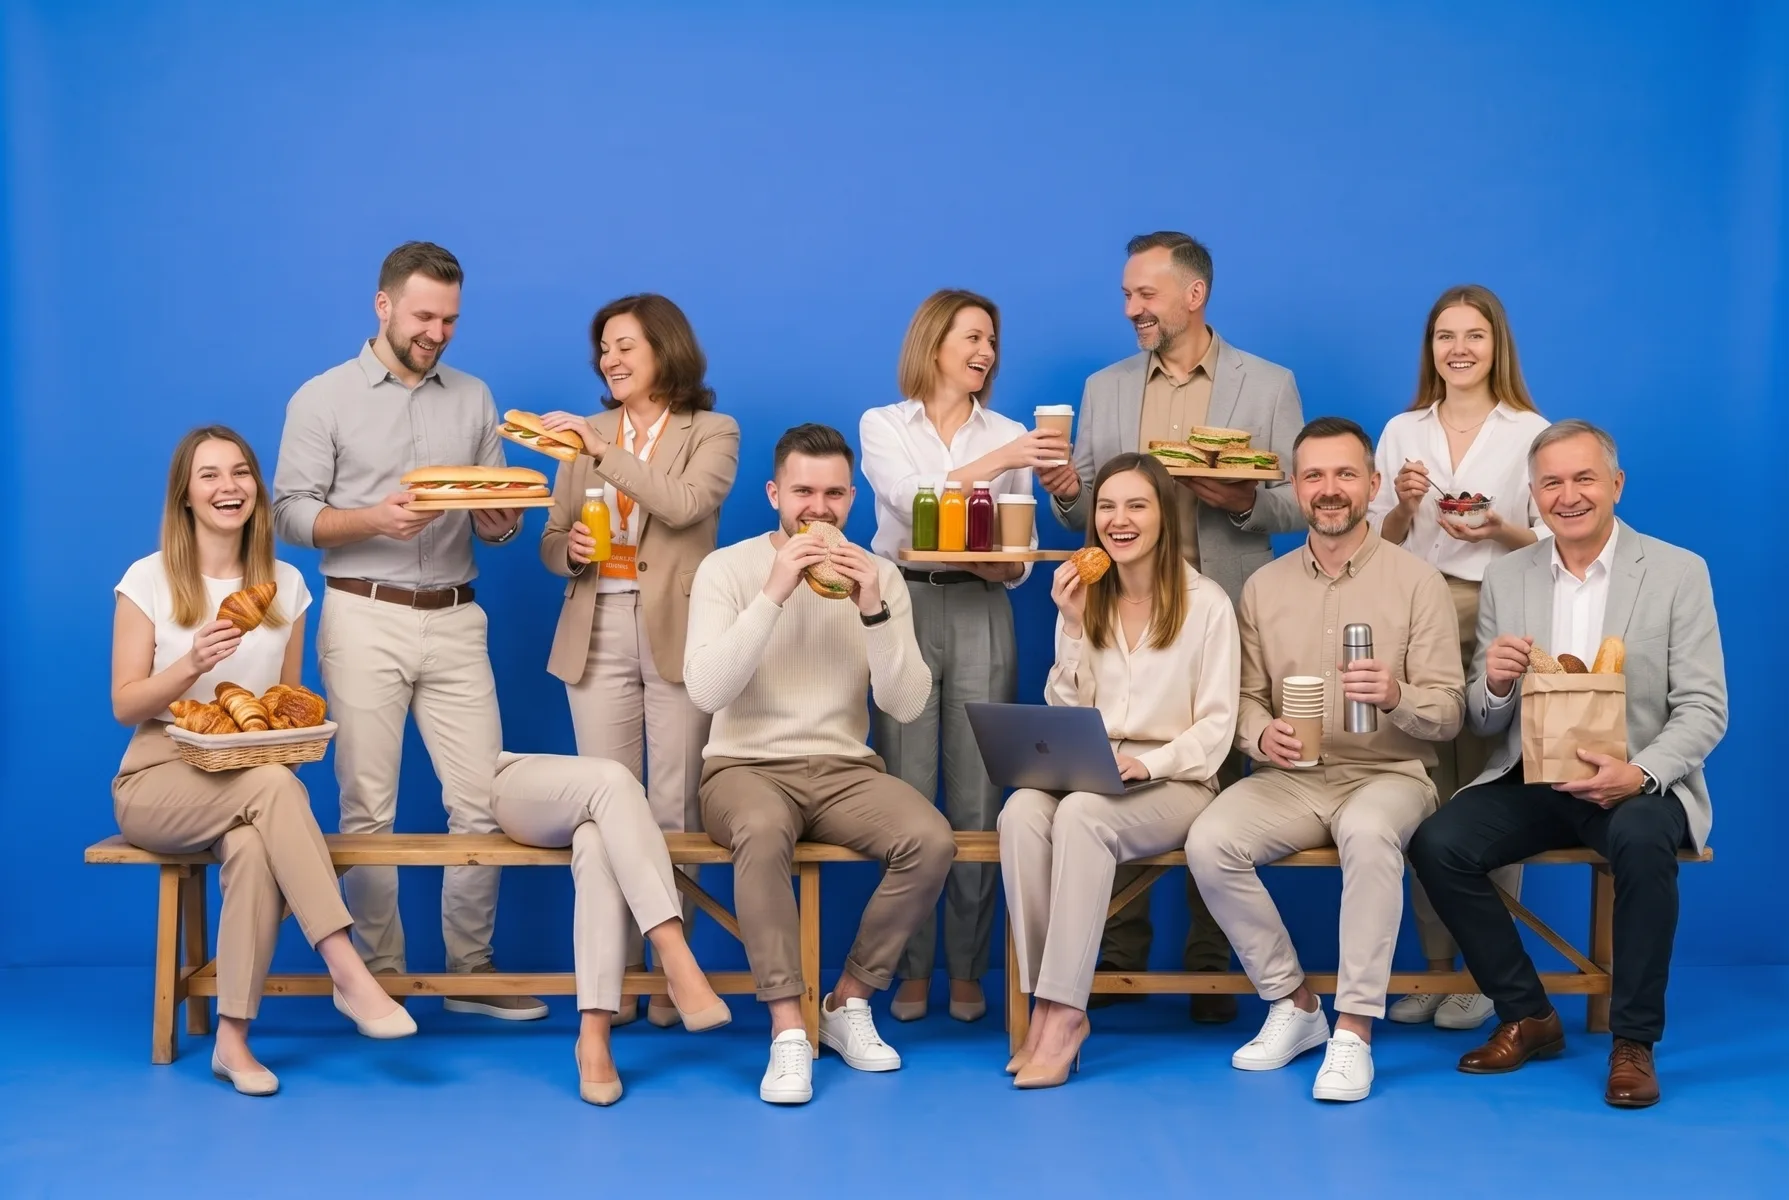
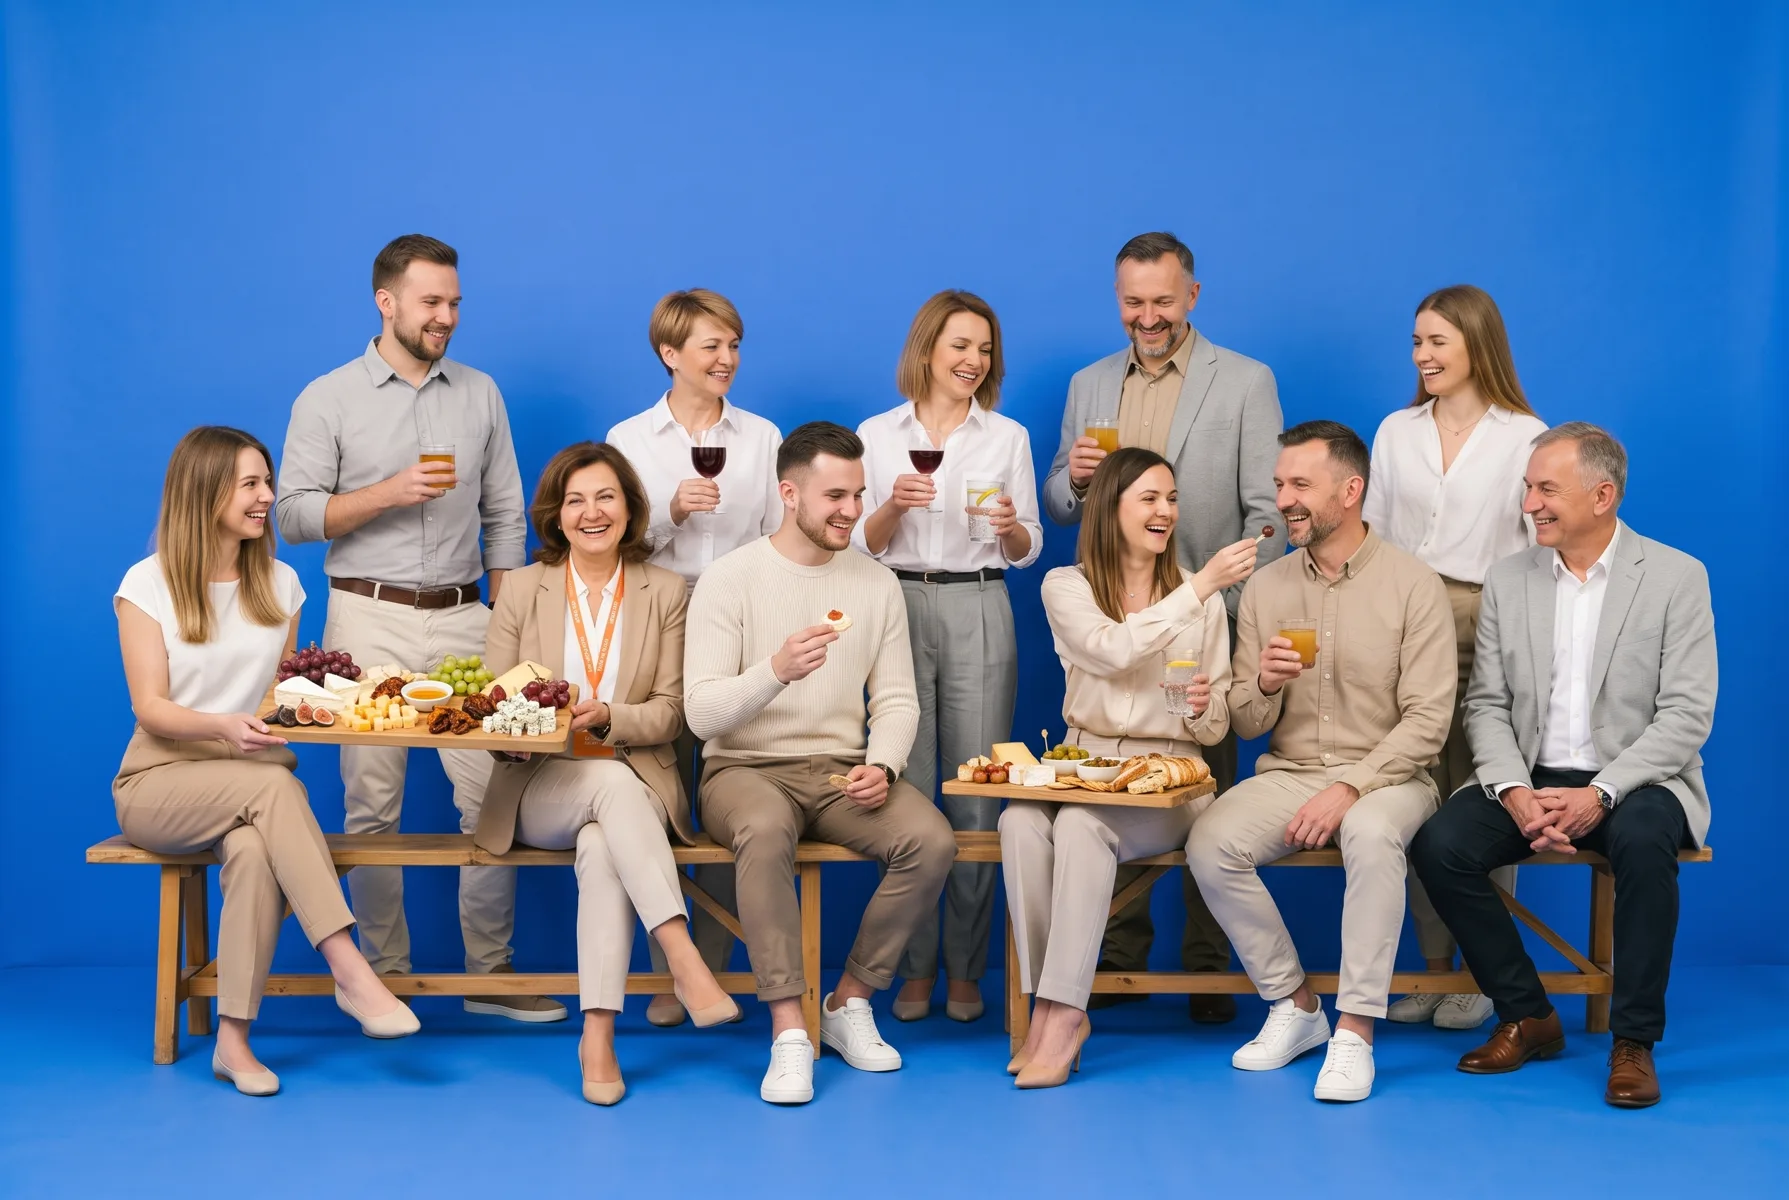
tb-kampania-zero: sprzedaż = degustacja po domkniętym kwartale

Changed region(s): [[0.0615, 0.185, 0.9838, 0.925], [0.0922, 0.74, 0.123, 0.8942], [0.7071, 0.8325, 0.7686, 0.8942]]

diff --git a/tb-kampania-zero.html b/tb-kampania-zero.html
@@ -119,7 +119,7 @@ section{padding:72px 0;}
   <div class="wrap">
     <div class="pairhead"><div class="mono">01 · Kampania</div><div class="mono">02 · Remarketing</div></div>
     <div class="pairs">
-      <div class="pair"><div class="poster p-blue"><img src="img/tb-zespoly/sprzedaz.webp" alt="Zespół sprzedaży"><div class="cap"><div class="who">Zespół sprzedaży · 10 osób</div><div class="line"><span class="stat">Wynik: 256% planu.</span><br>Budżet zespołu: 0 zł</div><div class="lock"><span class="brand"><img src="sygnet.svg" alt="">TeamBudget</span><span class="cta">Sprawdź TeamBudget</span></div></div></div><div class="poster after p-blue"><img src="img/tb-zespoly/sprzedaz-2.webp" alt="Zespół sprzedaży · 10 osób"><div class="cap"><div class="who">Zespół sprzedaży · 10 osób</div><div class="line"><span class="stat">Wynik: 256% planu.</span><br>Budżet zespołu: <b>2 000 zł</b><br>Śniadanie w&nbsp;piątki.</div><div class="lock"><span class="brand"><img src="sygnet.svg" alt="">TeamBudget</span><span class="cta">Zgłoś firmę do pilotażu</span></div></div></div></div>
+      <div class="pair"><div class="poster p-blue"><img src="img/tb-zespoly/sprzedaz.webp" alt="Zespół sprzedaży"><div class="cap"><div class="who">Zespół sprzedaży · 10 osób</div><div class="line"><span class="stat">Wynik: 256% planu.</span><br>Budżet zespołu: 0 zł</div><div class="lock"><span class="brand"><img src="sygnet.svg" alt="">TeamBudget</span><span class="cta">Sprawdź TeamBudget</span></div></div></div><div class="poster after p-blue"><img src="img/tb-zespoly/sprzedaz-2.webp" alt="Zespół sprzedaży · 10 osób"><div class="cap"><div class="who">Zespół sprzedaży · 10 osób</div><div class="line"><span class="stat">Wynik: 256% planu.</span><br>Budżet zespołu: <b>2 000 zł</b><br>Degustacja po domkniętym kwartale.</div><div class="lock"><span class="brand"><img src="sygnet.svg" alt="">TeamBudget</span><span class="cta">Zgłoś firmę do pilotażu</span></div></div></div></div>
       <div class="pair"><div class="poster p-orange"><img src="img/tb-zespoly/it.webp" alt="Zespół IT"><div class="cap"><div class="who">Zespół IT · 7 osób</div><div class="line"><span class="stat">Wdrożeń w tym roku: 412.</span><br>Budżet zespołu: 0 zł</div><div class="lock"><span class="brand"><img src="sygnet.svg" alt="">TeamBudget</span><span class="cta">Sprawdź TeamBudget</span></div></div></div><div class="poster after p-orange"><img src="img/tb-zespoly/it-2.webp" alt="Zespół IT · 7 osób"><div class="cap"><div class="who">Zespół IT · 7 osób</div><div class="line"><span class="stat">Wdrożeń w tym roku: 412.</span><br>Budżet zespołu: <b>1 200 zł</b><br>Kawa, o&nbsp;którą nikt nie prosi.</div><div class="lock"><span class="brand"><img src="sygnet.svg" alt="">TeamBudget</span><span class="cta">Zgłoś firmę do pilotażu</span></div></div></div></div>
       <div class="pair"><div class="poster p-sunny"><img src="img/tb-zespoly/ksiegowosc.webp" alt="Zespół księgowości"><div class="cap"><div class="who">Zespół księgowości · 6 osób</div><div class="line"><span class="stat">Zamknięć miesiąca na czas: 12 z 12.</span><br>Budżet zespołu: 0 zł</div><div class="lock"><span class="brand"><img src="sygnet.svg" alt="">TeamBudget</span><span class="cta">Sprawdź TeamBudget</span></div></div></div><div class="poster after p-sunny"><img src="img/tb-zespoly/ksiegowosc-2.webp" alt="Zespół księgowości · 6 osób"><div class="cap"><div class="who">Zespół księgowości · 6 osób</div><div class="line"><span class="stat">Zamknięć miesiąca na czas: 12 z 12.</span><br>Budżet zespołu: <b>800 zł</b><br>Owoce w&nbsp;każdy poniedziałek.</div><div class="lock"><span class="brand"><img src="sygnet.svg" alt="">TeamBudget</span><span class="cta">Zgłoś firmę do pilotażu</span></div></div></div></div>
       <div class="pair"><div class="poster p-yellow"><img src="img/tb-zespoly/obsluga.webp" alt="Zespół obsługi klienta"><div class="cap"><div class="who">Zespół obsługi klienta · 12 osób</div><div class="line"><span class="stat">Rozmów obsłużonych: 38 000.</span><br>Budżet zespołu: 0 zł</div><div class="lock"><span class="brand"><img src="sygnet.svg" alt="">TeamBudget</span><span class="cta">Sprawdź TeamBudget</span></div></div></div><div class="poster after p-yellow"><img src="img/tb-zespoly/obsluga-2.webp" alt="Zespół obsługi klienta · 12 osób"><div class="cap"><div class="who">Zespół obsługi klienta · 12 osób</div><div class="line"><span class="stat">Rozmów obsłużonych: 38 000.</span><br>Budżet zespołu: <b>1 500 zł</b><br>Lody, kiedy jest 30 stopni.</div><div class="lock"><span class="brand"><img src="sygnet.svg" alt="">TeamBudget</span><span class="cta">Zgłoś firmę do pilotażu</span></div></div></div></div>
